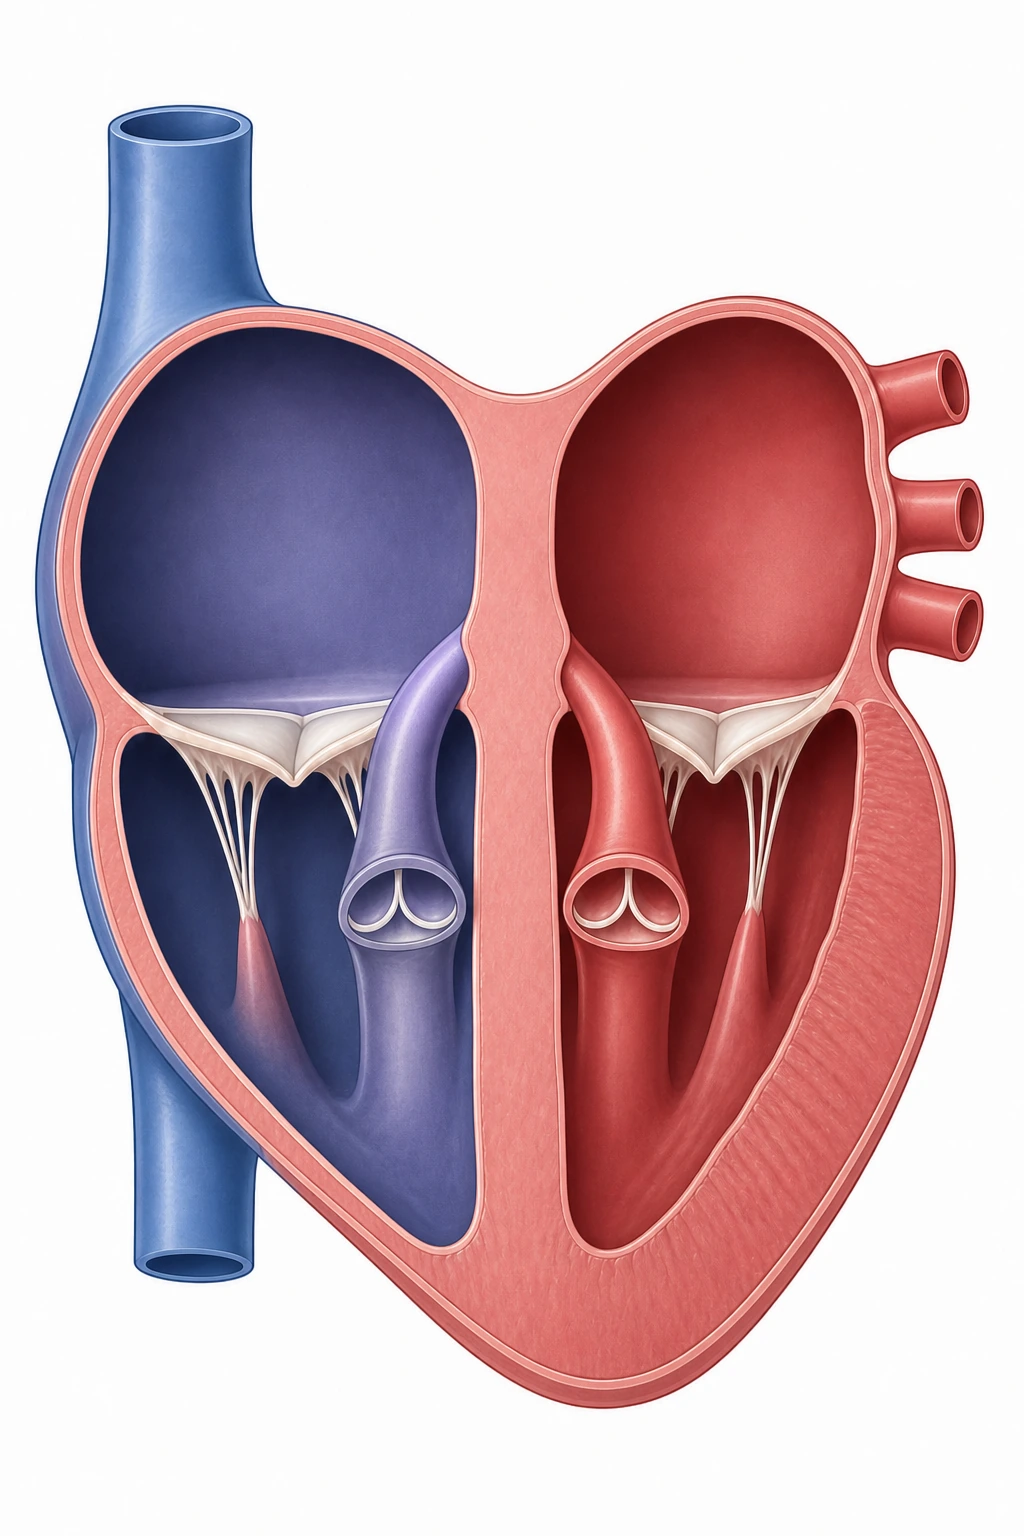
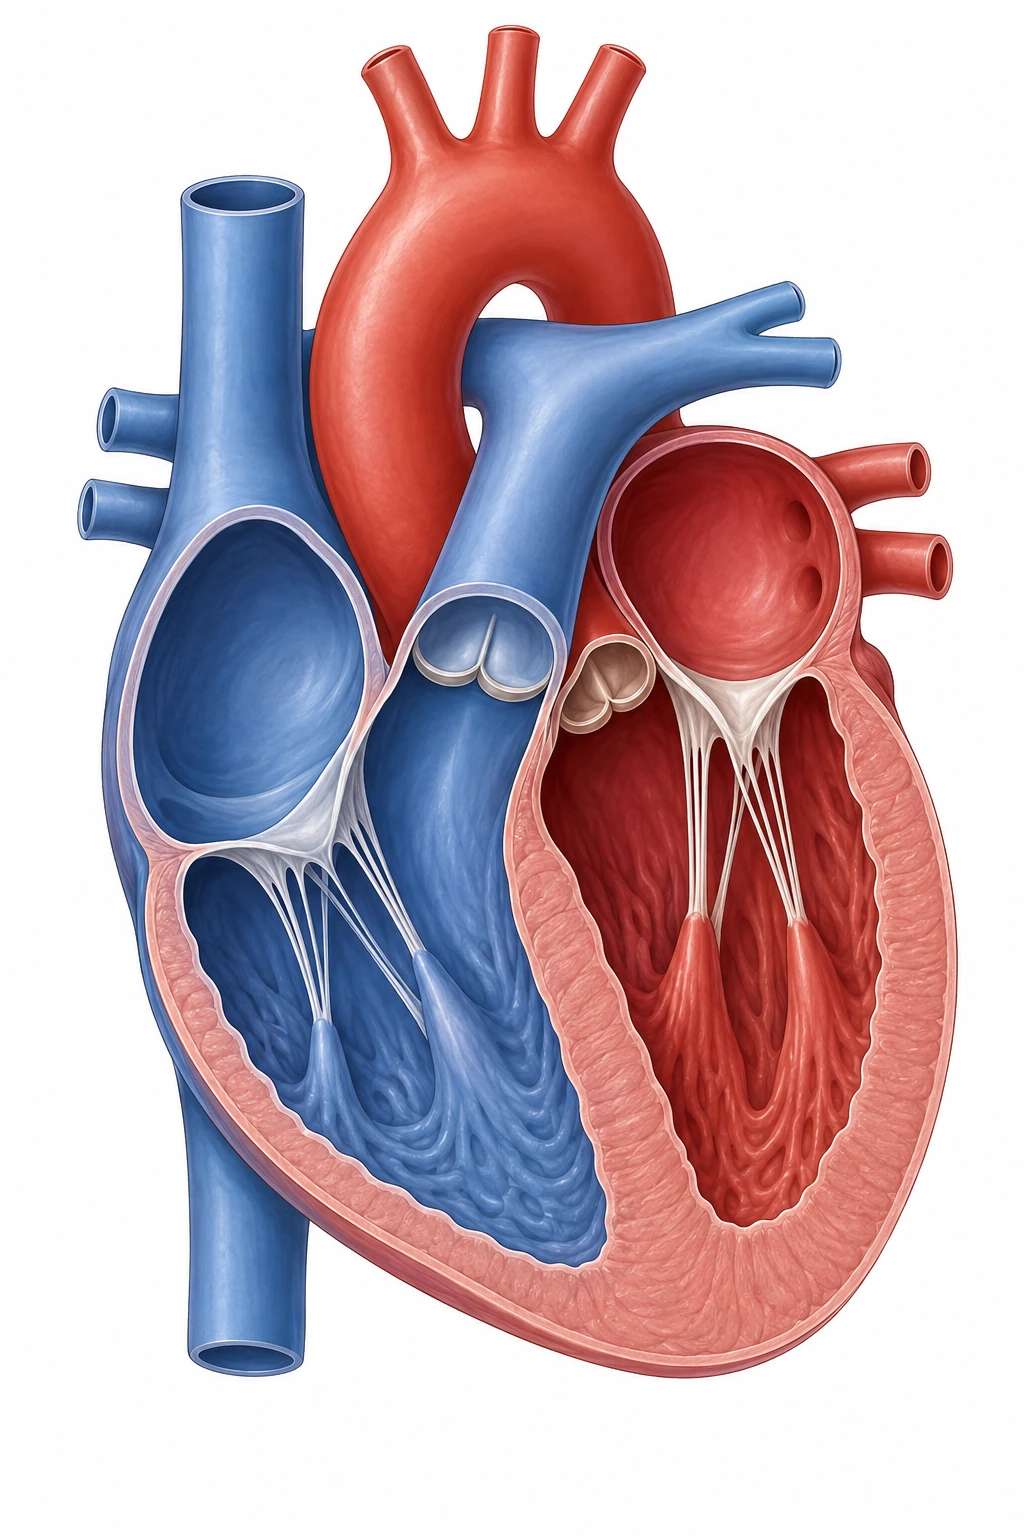
fix: adopt final Q231 atrial septum image

diff --git a/sw.js b/sw.js
@@ -8,7 +8,7 @@
 //   （＝どれか1枚の取得に失敗してもinstall全体を失敗させない。取得できなかった分は
 //   従来どおりimageCacheFirst()が実行時に個別取得を試み、それでも失敗すれば画面側の
 //   「画像準備中」表示に任せる）。
-var CACHE = 'anatomy-quiz-v2-2026-08-illustrations-v1-batch4-q231-fix';
+var CACHE = 'anatomy-quiz-v2-2026-08-illustrations-v1-batch4-q231-final';
 var CORE_ASSETS = [
   './',
   './index.html',

diff --git a/docs/common_illustration_library_v1_implementation_log.md b/docs/common_illustration_library_v1_implementation_log.md
@@ -65,10 +65,11 @@ commit hashは実装コミットのGit履歴を正本とする。
 
 - 作業開始HEAD：`ece38fe39a0d6ada400819a4a953e7e2c8e1b9a3`
 - 旧C10のQ231 markerは心房中隔ではなく半月弁付近を指していたため、Q231専用の「心臓4腔・中隔模式図」へ差し替えた。
-- 新C10は正面断面で、患者右を画像左に配置した。心房中隔と心室中隔を連続した壁として露出し、4心腔、房室弁、左右心室壁厚差、大血管接続を個別に確認した。
-- Q231のoverlayは新画像上の心房中隔中央 `(0.505, 0.337)` へ再測定した。altも新図の内容に合わせて更新した。
+- C10はユーザー確認済み添付画像を最終採用版とし、内容を改変せずWebPへ変換した。正面断面、患者右を画像左として、心房中隔、心室中隔、4心腔、房室弁、左右心室壁厚差、主要血管を確認した。
+- Q231のoverlayは最終採用画像上の心房中隔露出部 `(0.376, 0.462)` へ再測定した。altも新図の内容に合わせて更新した。
 - Q231のquestion、choices、answer、explanationは変更していない。C03は腱索・乳頭筋を詳しく示す既存masterとして残し、C10との統合は行わなかった。
 - 外部素材を使っていないためCreditsの変更はない。
+- C10はQ231の心房中隔識別用として採用した。大動脈弁から大動脈基部・上行大動脈に至る位置関係には模式図として改善余地があり、循環器master全体を将来改訂する際の確認項目とする。
 
 ---
 
